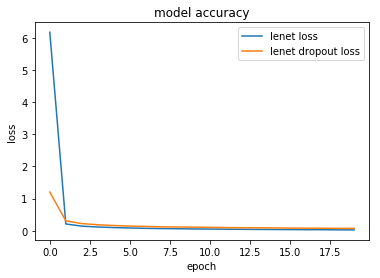
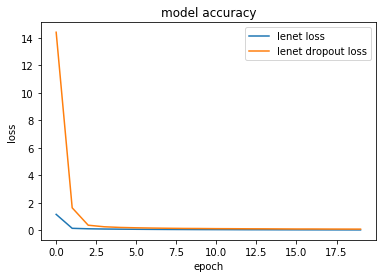
Updates assets/AlexNet_8.png
Auto commit by GitBook Editor

diff --git a/di-yi-zhang-ff1a-jing-dian-wang-luo/going-deeper-with-convolutions.md b/di-yi-zhang-ff1a-jing-dian-wang-luo/going-deeper-with-convolutions.md
@@ -8,7 +8,14 @@
 
 ### 1.1 Maxout Networks
 
-在之前介绍的AlexNet中，引入了Dropout \[6\]来减轻模型的过拟合的问题。Dropout可以看做是一种集成模型的思想，在模型训练的每个step，Dropout都会以概率p将某些
+在之前介绍的AlexNet中，引入了Dropout \[6\]来减轻模型的过拟合的问题。Dropout可以看做是一种集成模型的思想，在每个step中，会将网络的隐层节点以概率p置0。Dropout和传统的bagging方法主要有以下两个方面不同：
+
+1. Dropout的每个子模型的权值是共享的；
+2. 在训练的每个step中，Dropout每次会使用不同的样本子集训练不同的子网络。
+
+这样在每个step中都会有不同的节点参与训练，减轻了节点之间的耦合性。在测试时，使用的是整个网络的所有节点，只是节点的输出值要乘以Dropout的概率p。
+
+作者认为，与其像Dropout这种毫无选择的平均，我们不如有条件的选择更合适的节点来生成网络。
 
 ## Reference
 
@@ -22,5 +29,5 @@
 
 \[5\] C. Szegedy, W. Liu, Y. Jia, P. Sermanet, S. Reed, D. Anguelov, D. Erhan, V. Vanhoucke, and A. Rabinovich. Going deeper with convolutions. In CVPR, 2015.
 
-\[6\] 
+\[6\] Hinton G E, Srivastava N, Krizhevsky A, et al. Improving neural networks by preventing co-adaptation of feature detectors\[J\]. arXiv preprint arXiv:1207.0580, 2012.
 

diff --git a/di-yi-zhang-ff1a-jing-dian-wang-luo/imagenet-classification-with-deep-convolutional-neural-networks.md b/di-yi-zhang-ff1a-jing-dian-wang-luo/imagenet-classification-with-deep-convolutional-neural-networks.md
@@ -161,7 +161,7 @@ $$
 
 显然Dropout会减慢收敛速度，但其对减轻过拟合的优异表现仍旧使其在当前的网络中得到广泛的使用。
 
-下图是LeNet-5中加入Dropout之后模型的训练loss曲线图，从图中我们可以看出，加入Dropout之后，训练速度放缓了一些，20个epoch之后，训练集的损失函数也高于没有Dropout的，但是加入Dropout之后，虽然loss=0.0726远高于没有Dropout的0.0243，但是测试集的准确率从0.9773上升到0.9814，可见Dropout对于缓解过拟合还是非常有帮助的。
+下图是LeNet-5中加入Dropout之后模型的训练loss曲线图，从图中我们可以看出，加入Dropout之后，训练速度放缓了一些，20个epoch之后，训练集的损失函数也高于没有Dropout的，但是加入Dropout之后，虽然loss=0.0735远高于没有Dropout的0.0155，但是测试集的准确率从0.9826上升到0.9841，可见Dropout对于缓解过拟合还是非常有帮助的。实验代码见：[https://github.com/senliuy/CNN-Structures/blob/master/LeNet\_Dropout.ipynb](https://github.com/senliuy/CNN-Structures/blob/master/LeNet_Dropout.ipynb)
 
 ###### 图8：Dropout vs None Dropout
 
